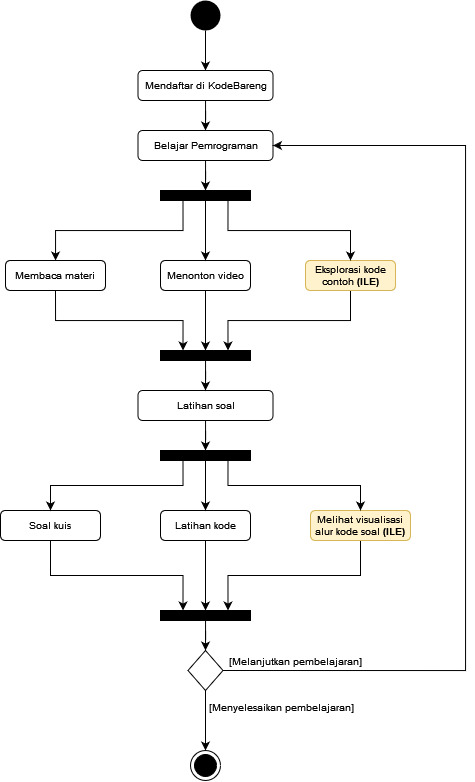
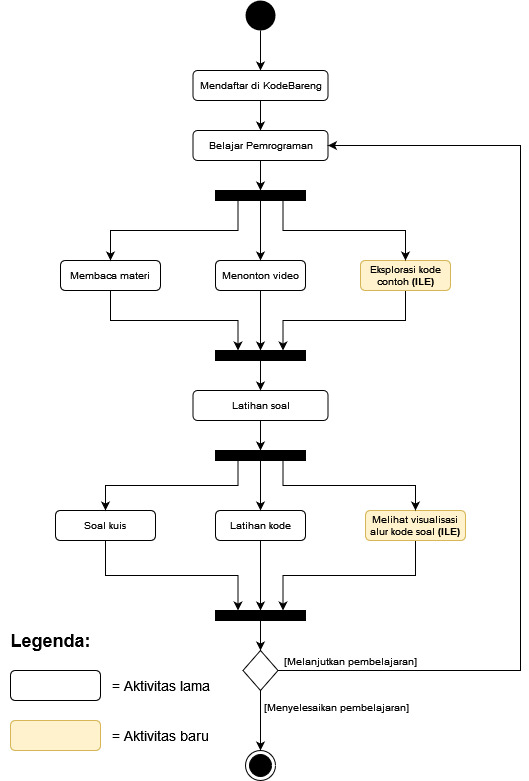
tables fixed, add legend to diagrams

diff --git a/src/chapters/chapter-4.tex b/src/chapters/chapter-4.tex
@@ -8,12 +8,12 @@ Implementasi dilakukan menggunakan teknologi yang telah dipakai pada KodeBareng 
 
 \small
 \begin{longtable}[c]{|>{\setlength{\baselineskip}{0.75\baselineskip}}p{0.3\linewidth}|>{\setlength{\baselineskip}{0.75\baselineskip}}p{0.4\linewidth}|}
-  \caption{\normalsize \textit{Tech stack} yang digunakan oleh KodeBareng} \label{tab:tech-stack}                   \\ \hline
+  \caption{\textit{Tech stack} yang digunakan oleh KodeBareng} \label{tab:tech-stack}                               \\ \hline
   \rowcolor{gray!30}
   \textbf{Nama Sistem}                                     & \textbf{Teknologi / \textit{Framework} yang digunakan} \\ \hline
   \endfirsthead
   %
-  \caption{\normalsize (lanjutan) \textit{Tech stack} yang digunakan oleh KodeBareng}                               \\ \hline
+  \caption*{\autoref{tab:tech-stack} (lanjutan): \textit{Tech stack} yang digunakan oleh KodeBareng}                \\ \hline
   \rowcolor{gray!30}
   \textbf{Nama Sistem}                                     & \textbf{Teknologi / \textit{Framework} yang digunakan} \\ \hline
   \endhead
@@ -29,12 +29,12 @@ Selain dari teknologi yang digunakan, terdapat juga batasan dari bahasa pemrogra
 
 \footnotesize
 \begin{longtable}[c]{|l|l|}
-  \caption{\normalsize Cakupan implementasi ILE} \label{tab:ile-scope}          \\ \hline
+  \caption{Cakupan implementasi ILE} \label{tab:ile-scope}                      \\ \hline
   \rowcolor{gray!30}
   \small\textbf{Concepts}                       & \small Termasuk Implementasi? \\ \hline
   \endfirsthead
   %
-  \caption{\normalsize (lanjutan) Cakupan implementasi ILE}                     \\ \hline
+  \caption*{\autoref{tab:ile-scope} (lanjutan): Cakupan implementasi ILE}       \\ \hline
   \rowcolor{gray!30}
   \small\textbf{Concepts}                       & \small Termasuk Implementasi? \\ \hline
   \endhead
@@ -161,20 +161,20 @@ Pengujian spesifikasi fungsional sistem dilakukan pada komputer server KodeBaren
 
 \small
 \begin{longtable}[c]{|l|l|}
-  \caption{\normalsize Lingkungan pengujian komputer server} \label{tab:lingkungan-server} \\ \hline
+  \caption{Lingkungan pengujian komputer server} \label{tab:lingkungan-server}                \\ \hline
   \rowcolor{gray!30}
-  \textbf{Komponen} & \textbf{Keterangan}                                                  \\ \hline
+  \textbf{Komponen} & \textbf{Keterangan}                                                     \\ \hline
   \endfirsthead
   %
-  \caption{\normalsize (lanjutan) Lingkungan pengujian komputer server}                    \\ \hline
+  \caption*{\autoref{tab:lingkungan-server} (lanjutan): Lingkungan pengujian komputer server} \\ \hline
   \rowcolor{gray!30}
-  \textbf{Komponen} & \textbf{Keterangan}                                                  \\ \hline
+  \textbf{Komponen} & \textbf{Keterangan}                                                     \\ \hline
   \endhead
   %
-  Prosesor          & Intel(R) Xeon(R) CPU E5-2660 0 @ 2.20GHz                             \\ \hline
-  Memori            & 2GB                                                                  \\ \hline
-  Storage           & 32GB                                                                 \\ \hline
-  Sistem Operasi    & Ubuntu 20.04.4 LTS                                                   \\ \hline
+  Prosesor          & Intel(R) Xeon(R) CPU E5-2660 0 @ 2.20GHz                                \\ \hline
+  Memori            & 2GB                                                                     \\ \hline
+  Storage           & 32GB                                                                    \\ \hline
+  Sistem Operasi    & Ubuntu 20.04.4 LTS                                                      \\ \hline
 \end{longtable}
 \normalsize
 
@@ -187,47 +187,49 @@ Pengujian fungsional dilakukan berdasarkan spesifikasi kebutuhan fungsional dan 
 
 \small
 \begin{longtable}[c]{|l|>{\setlength{\baselineskip}{0.75\baselineskip}}p{0.5\linewidth}|>{\setlength{\baselineskip}{0.75\baselineskip}}p{0.2\linewidth}|}
-  \caption{\normalsize Skenario dan hasil pengujian fungsional}
-  \label{tab:pengujian-fungsional}                                                                                        \\
-  \hline
+  \caption{Skenario dan hasil pengujian fungsional} \label{tab:pengujian-fungsional}                                     \\ \hline
   \rowcolor{gray!30}
-  \textbf{ID} & \textbf{Skenario}                                                                        & \textbf{Hasil} \\ \hline
+  \textbf{ID} & \textbf{Skenario}                                                                       & \textbf{Hasil} \\ \hline
   \endfirsthead
   %
+  \caption*{\autoref{tab:pengujian-fungsional} (lanjutan): Skenario dan hasil pengujian fungsional}                      \\ \hline
+  \rowcolor{gray!30}
+  \textbf{ID} & \textbf{Skenario}                                                                       & \textbf{Hasil} \\ \hline
   \endhead
   %
-  KB-F-01     & Pengguna memasukkan kode program pada sistem                                             & Diterima       \\ \hline
-  KB-F-02     & Pengguna memasukkan input program pada sistem                                            & Diterima       \\ \hline
-  KB-F-03     & Pengguna dapat menjalankan kode                                                          & Diterima       \\ \hline
-  KB-F-04     & Pengguna dapat melihat hasil visualisasi eksekusi kode                                   & Diterima       \\ \hline
-  KB-F-05     & Pengguna mendapat penilaian dari hasil eksekusi kode                                     & Diterima       \\ \hline
-  KB-F-06     & Pengguna mendapat \textit{hint} kesalahan pada kode program                              & Diterima       \\ \hline
-  KB-F-07     & Pengguna dapat melihat pesan error pada program                                          & Diterima       \\ \hline
-  KB-F-08     & Sistem menolak kode pengguna apabila terdapat perintah-perintah yang tidak diperbolehkan & Diterima       \\ \hline
-  KB-F-09     & Sistem menilai kode program menggunakan \textit{test case}                               & Diterima       \\ \hline
-  KB-F-10     & Sistem mengolah \textit{stack trace} eksekusi program                                    & Diterima       \\ \hline
-  KB-F-11     & Administrator menentukan perintah-perintah yang tidak diperbolehkan                      & Diterima       \\ \hline
-  KB-F-12     & Administrator memasukkan konten materi pembelajaran                                      & Diterima       \\ \hline
-  KB-F-13     & Administrator membuat soal pemrograman                                                   & Diterima       \\ \hline
-  KB-F-14     & Administrator memasukkan \textit{test case} soal pemrograman                             & Diterima       \\ \hline
-  KB-F-15     & Administrator memasukkan \textit{hint} kesalahan yang dapat ditampilkan pada soal        & Diterima       \\ \hline
+  KB-F-01     & Pelajar memasukkan kode program pada sistem                                             & Diterima       \\ \hline
+  KB-F-02     & Pelajar memasukkan input program pada sistem                                            & Diterima       \\ \hline
+  KB-F-03     & Pelajar dapat menjalankan kode                                                          & Diterima       \\ \hline
+  KB-F-04     & Pelajar dapat melihat hasil visualisasi eksekusi kode                                   & Diterima       \\ \hline
+  KB-F-05     & Pelajar mendapat penilaian dari hasil eksekusi kode                                     & Diterima       \\ \hline
+  KB-F-06     & Pelajar mendapat \textit{hint} kesalahan pada kode program                              & Diterima       \\ \hline
+  KB-F-07     & Pelajar dapat melihat pesan error pada program                                          & Diterima       \\ \hline
+  KB-F-08     & Sistem menolak kode pelajar apabila terdapat perintah-perintah yang tidak diperbolehkan & Diterima       \\ \hline
+  KB-F-09     & Sistem menilai kode program menggunakan \textit{test case}                              & Diterima       \\ \hline
+  KB-F-10     & Sistem mengolah \textit{stack trace} eksekusi program                                   & Diterima       \\ \hline
+  KB-F-11     & Administrator menentukan perintah-perintah yang tidak diperbolehkan                     & Diterima       \\ \hline
+  KB-F-12     & Administrator memasukkan konten materi pembelajaran                                     & Diterima       \\ \hline
+  KB-F-13     & Administrator membuat soal pemrograman                                                  & Diterima       \\ \hline
+  KB-F-14     & Administrator memasukkan \textit{test case} soal pemrograman                            & Diterima       \\ \hline
+  KB-F-15     & Administrator memasukkan \textit{hint} kesalahan yang dapat ditampilkan pada soal       & Diterima       \\ \hline
 \end{longtable}
 \normalsize
 
 \small
 \begin{longtable}[c]{|l|>{\setlength{\baselineskip}{0.75\baselineskip}}p{0.6\linewidth}|l|}
-  \caption{\normalsize Skenario dan hasil pengujian non-fungsional}
-  \label{tab:pengujian-nonfungsional}                                                      \\
-  \hline
+  \caption{Skenario dan hasil pengujian non-fungsional} \label{tab:pengujian-nonfungsional}                \\ \hline
   \rowcolor{gray!30}
-  \textbf{ID} & \textbf{Skenario}                                         & \textbf{Hasil} \\ \hline
+  \textbf{ID} & \textbf{Skenario}                                         & \textbf{Hasil}                 \\ \hline
   \endfirsthead
   %
+  \caption*{\autoref{tab:pengujian-nonfungsional} (lanjutan): Skenario dan hasil pengujian non-fungsional} \\ \hline
+  \rowcolor{gray!30}
+  \textbf{ID} & \textbf{Skenario}                                         & \textbf{Hasil}                 \\ \hline
   \endhead
   %
-  KB-NF-01    & Sistem mengembalikan hasil eksekusi paling lama 10 detik. & Diterima       \\ \hline
-  KB-NF-02    & Sistem dapat diuji menggunakan beragam kode program       & Diterima       \\ \hline
-  KB-NF-03    & Sistem menolak kode berbahaya                             & Diterima       \\ \hline
+  KB-NF-01    & Sistem mengembalikan hasil eksekusi paling lama 10 detik. & Diterima                       \\ \hline
+  KB-NF-02    & Sistem dapat diuji menggunakan beragam kode program       & Diterima                       \\ \hline
+  KB-NF-03    & Sistem menolak kode berbahaya                             & Diterima                       \\ \hline
 \end{longtable}
 \normalsize
 
@@ -241,13 +243,14 @@ Materi yang diberikan terbagi menjadi 3 modul yaitu modul Pengenalan Python Dasa
 
 \small
 \begin{longtable}[c]{|l|l|>{\setlength{\baselineskip}{0.75\baselineskip}}p{0.5\linewidth}|}
-  \caption{\normalsize Kategori penilaian SOLO Level}
-  \label{tab:solo-level}                                                                                                                                 \\
-  \hline
+  \caption{Kategori penilaian SOLO Level} \label{tab:solo-level}                                                                                         \\ \hline
   \rowcolor{gray!30}
   \textbf{SOLO Level} & \textbf{Kategori} & \textbf{Deskripsi}                                                                                           \\ \hline
   \endfirsthead
   %
+  \caption*{\autoref{} (lanjutan):Kategori penilaian SOLO Level}                                                                                         \\ \hline
+  \rowcolor{gray!30}
+  \textbf{SOLO Level} & \textbf{Kategori} & \textbf{Deskripsi}                                                                                           \\ \hline
   \endhead
   %
   1                   & Prestructural     & Memperlihatkan kurangnya pengetahuan pemrograman atau tidak berhubungan dengan pertanyaan yang diberikan     \\ \hline
@@ -297,28 +300,28 @@ Berikut \autoref{fig:kuesioner-memahami} dan \autoref{tab:kuesioner1-statistik} 
 
 \small
 \begin{longtable}[c]{|l|>{\setlength{\baselineskip}{0.75\baselineskip}}p{0.5\linewidth}|}
-  \caption{\normalsize Hasil perhitungan statistik deskriptif pada respon kuesioner pertanyaan pertama}
-  \label{tab:kuesioner1-statistik}                                                                  \\
-  \hline
-                           & Apakah visualisasi kode membuatmu lebih memahami kode yang dijalankan? \\ \hline
+  \caption{Hasil perhitungan statistik deskriptif pada respon kuesioner pertanyaan pertama} \label{tab:kuesioner1-statistik}                                                 \\ \hline
+                           & Apakah visualisasi kode membuatmu lebih memahami kode yang dijalankan?                                                                          \\ \hline
   \endfirsthead
   %
+  \caption*{\autoref{tab:kuesioner1-statistik} (lanjutan): Hasil perhitungan statistik deskriptif pada respon kuesioner pertanyaan pertama} \label{tab:kuesioner1-statistik} \\ \hline
+                           & Apakah visualisasi kode membuatmu lebih memahami kode yang dijalankan?                                                                          \\ \hline
   \endhead
   %
-  Mean                     & 4.230769                                                               \\ \hline
-  Standard Error           & 0.25705                                                                \\ \hline
-  Median                   & 4                                                                      \\ \hline
-  Mode                     & 5                                                                      \\ \hline
-  Standard Deviation       & 0.926809                                                               \\ \hline
-  Sample Variance          & 0.858974                                                               \\ \hline
-  Kurtosis                 & 1.524332                                                               \\ \hline
-  Skewness                 & -1.27368                                                               \\ \hline
-  Range                    & 3                                                                      \\ \hline
-  Minimum                  & 2                                                                      \\ \hline
-  Maximum                  & 5                                                                      \\ \hline
-  Sum                      & 55                                                                     \\ \hline
-  Count                    & 13                                                                     \\ \hline
-  Confidence Level(95,0\%) & 0.560065                                                               \\ \hline
+  Mean                     & 4.230769                                                                                                                                        \\ \hline
+  Standard Error           & 0.25705                                                                                                                                         \\ \hline
+  Median                   & 4                                                                                                                                               \\ \hline
+  Mode                     & 5                                                                                                                                               \\ \hline
+  Standard Deviation       & 0.926809                                                                                                                                        \\ \hline
+  Sample Variance          & 0.858974                                                                                                                                        \\ \hline
+  Kurtosis                 & 1.524332                                                                                                                                        \\ \hline
+  Skewness                 & -1.27368                                                                                                                                        \\ \hline
+  Range                    & 3                                                                                                                                               \\ \hline
+  Minimum                  & 2                                                                                                                                               \\ \hline
+  Maximum                  & 5                                                                                                                                               \\ \hline
+  Sum                      & 55                                                                                                                                              \\ \hline
+  Count                    & 13                                                                                                                                              \\ \hline
+  Confidence Level(95,0\%) & 0.560065                                                                                                                                        \\ \hline
 \end{longtable}
 \normalsize
 
@@ -334,28 +337,28 @@ Berikut \autoref{fig:kuesioner-soal} dan \autoref{tab:kuesioner2-statistik} adal
 
 \small
 \begin{longtable}[c]{|l|>{\setlength{\baselineskip}{0.75\baselineskip}}p{0.5\linewidth}|}
-  \caption{\normalsize Hasil perhitungan statistik deskriptif pada respon kuesioner pertanyaan kedua}
-  \label{tab:kuesioner2-statistik}                                                              \\
-  \hline
-                           & Apakah visualisasi kode membantumu menjawab kuis dan latihan soal? \\ \hline
+  \caption{Hasil perhitungan statistik deskriptif pada respon kuesioner pertanyaan kedua} \label{tab:kuesioner2-statistik}                                                \\ \hline
+                           & Apakah visualisasi kode membantumu menjawab kuis dan latihan soal?                                                                           \\ \hline
   \endfirsthead
   %
+  \caption*{\autoref{tab:kuesioner2-statistik} (lanjutan):Hasil perhitungan statistik deskriptif pada respon kuesioner pertanyaan kedua} \label{tab:kuesioner2-statistik} \\ \hline
+                           & Apakah visualisasi kode membantumu menjawab kuis dan latihan soal?                                                                           \\ \hline
   \endhead
   %
-  Mean                     & 4.384615                                                           \\ \hline
-  Standard Error           & 0.266469                                                           \\ \hline
-  Median                   & 5                                                                  \\ \hline
-  Mode                     & 5                                                                  \\ \hline
-  Standard Deviation       & 0.960769                                                           \\ \hline
-  Sample Variance          & 0.923077                                                           \\ \hline
-  Kurtosis                 & 2.096086                                                           \\ \hline
-  Skewness                 & -1.6125                                                            \\ \hline
-  Range                    & 3                                                                  \\ \hline
-  Minimum                  & 2                                                                  \\ \hline
-  Maximum                  & 5                                                                  \\ \hline
-  Sum                      & 57                                                                 \\ \hline
-  Count                    & 13                                                                 \\ \hline
-  Confidence Level(95,0\%) & 0.580587                                                           \\ \hline
+  Mean                     & 4.384615                                                                                                                                     \\ \hline
+  Standard Error           & 0.266469                                                                                                                                     \\ \hline
+  Median                   & 5                                                                                                                                            \\ \hline
+  Mode                     & 5                                                                                                                                            \\ \hline
+  Standard Deviation       & 0.960769                                                                                                                                     \\ \hline
+  Sample Variance          & 0.923077                                                                                                                                     \\ \hline
+  Kurtosis                 & 2.096086                                                                                                                                     \\ \hline
+  Skewness                 & -1.6125                                                                                                                                      \\ \hline
+  Range                    & 3                                                                                                                                            \\ \hline
+  Minimum                  & 2                                                                                                                                            \\ \hline
+  Maximum                  & 5                                                                                                                                            \\ \hline
+  Sum                      & 57                                                                                                                                           \\ \hline
+  Count                    & 13                                                                                                                                           \\ \hline
+  Confidence Level(95,0\%) & 0.580587                                                                                                                                     \\ \hline
 \end{longtable}
 \normalsize
 

diff --git a/src/chapters/chapter-3.tex b/src/chapters/chapter-3.tex
@@ -182,7 +182,7 @@ ILE akan diintegrasikan pada komponen-komponen terkait materi pembelajaran di Ko
 
 \begin{figure}[H]
   \centering
-  \includegraphics[width=0.8\textwidth]{chapter3/activity-overall.jpg}
+  \includegraphics[width=0.85\textwidth]{chapter3/activity-overall.jpg}
   \caption{Activity Diagram Pengguna} \label{fig:activity-overall}
 \end{figure}
 
@@ -190,7 +190,7 @@ Alur program utama terkait visualisasi eksekusi kode dimulai dari pengguna atau 
 
 \begin{figure}[H]
   \centering
-  \includegraphics[width=1.15\textwidth]{chapter3/activity-ile.jpg}
+  \includegraphics[width=1.8\textwidth, angle=-90]{chapter3/activity-ile.jpg}
   \caption{Activity Diagram ILE} \label{fig:activity-ile}
 \end{figure}
 

diff --git a/TODO.md b/TODO.md
@@ -109,11 +109,11 @@ progress report tiap minggu, bentar aja.
   - Tinggal pindahin usecasenya
 - [x] Simpulan dan saran harus ada kuantifikasi dan berdasarkan hasil pengujian, jangan pakai bahasa bisnis
   - Masukin aja angka2nya ke kesimpulan
-- [ ] Tabel font spasi kecil & 1 spasi & header + caption hrus direpeat
+- [x] Tabel font spasi kecil & 1 spasi & header + caption hrus direpeat
   - Tinggal pake \small, >{\baselineskip} sama caption masukin ke luar firsthead
 - [x] Diagram terlalu kecil, kalau ada yang kekecilan bisa agak makan margin ke kanan
   - Pake adjustbox buat bisa keluar margin
-- [ ] Alur pembelajaran ILE yg kuning hrus dijelasin legendanya
+- [x] Alur pembelajaran ILE yg kuning hrus dijelasin legendanya
   - Masukin legenda ke activity diagram
 - [ ] Harus dijelaskan bagaimana rumusan masalah terhadap kondisi KodeBareng, bagaimana hasil akhir dlm menyelesaikan (kaitin KodeBareng ke dalam bab 1)
   - Masukin KodeBareng ke dalam Latar Belakang, Rumusan Masalah, dan Tujuan
